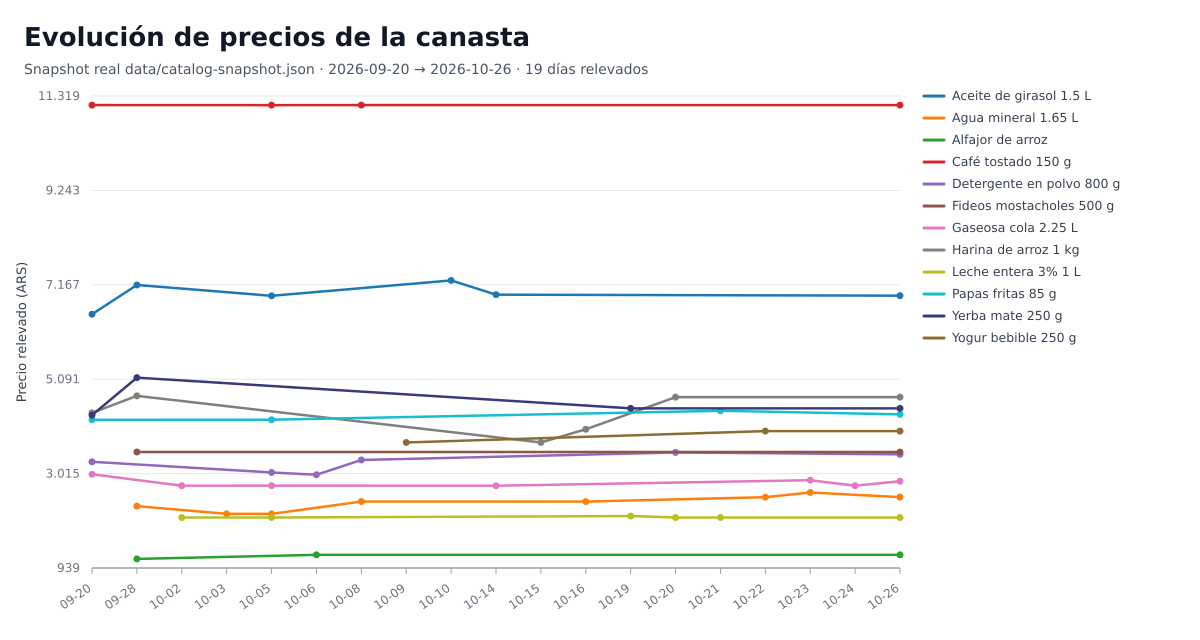
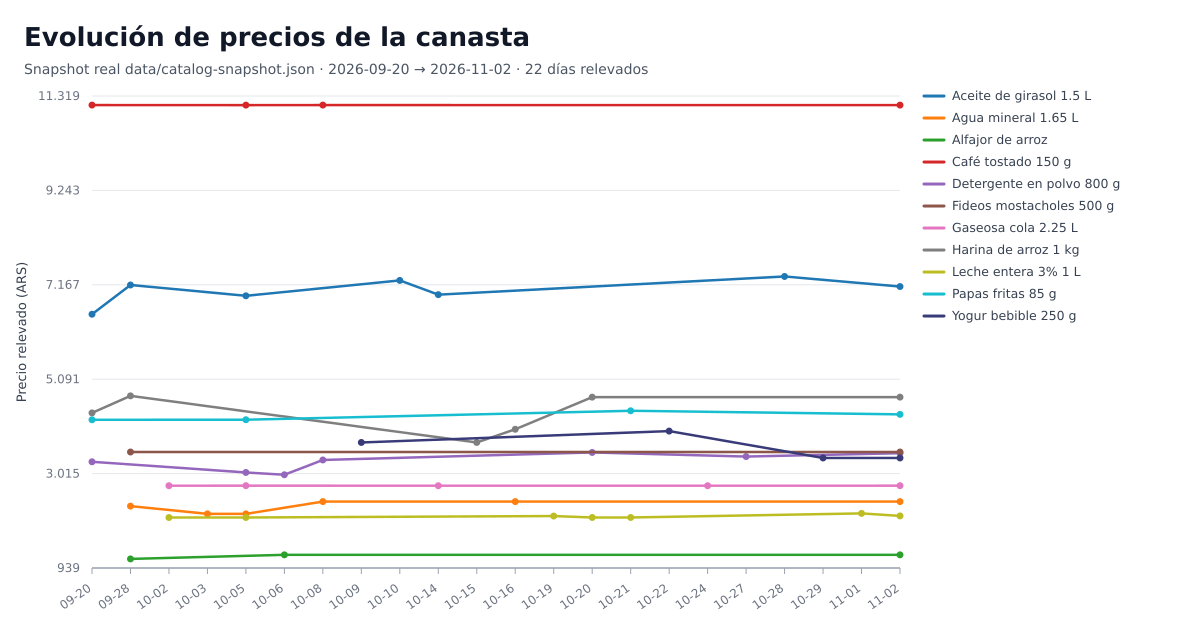
chore(analytics): refresh the price chart 2026-11-02 [cloud]

diff --git a/README.md b/README.md
@@ -49,7 +49,7 @@ precios a Parquet y la modela con DuckDB + dbt (`analytics/`):
 <!-- price-chart:start -->
 ![Evolución de precios de la canasta](analytics/assets/price-evolution.png)
 
-Fuente: snapshot real `data/catalog-snapshot.json` · Rango 2026-09-20 → 2026-10-26 · 19 días relevados.
+Fuente: snapshot real `data/catalog-snapshot.json` · Rango 2026-09-20 → 2026-11-02 · 22 días relevados.
 <!-- price-chart:end -->
 
 - `scripts/export-price-series.ts` escribe una fila por (fecha, GTIN-14, súper)
